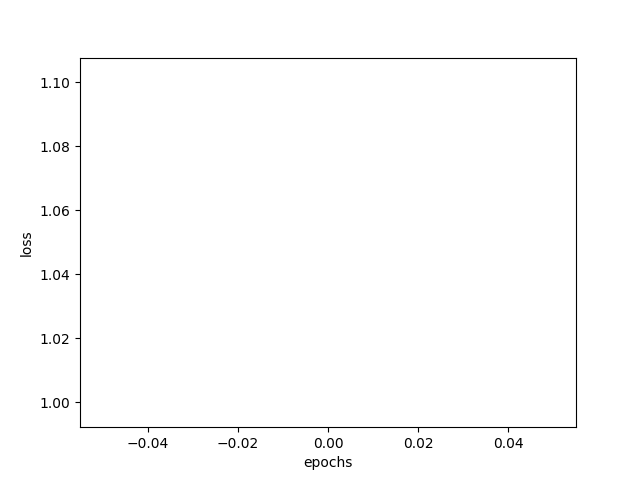
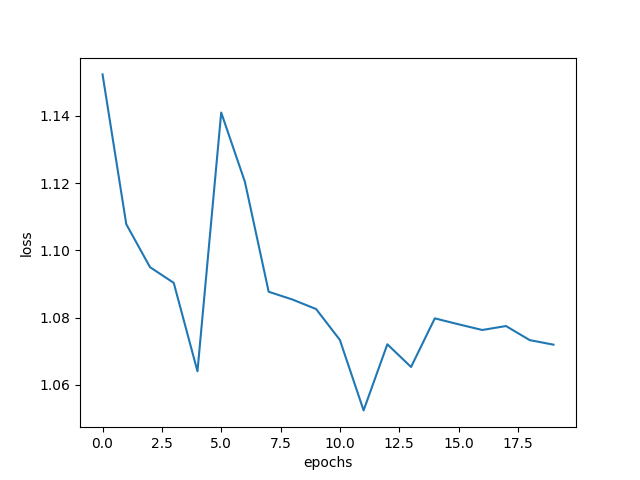
test1 origin

diff --git a/Nakka0925/train_neuralnet.py b/Nakka0925/train_neuralnet.py
@@ -31,11 +31,7 @@ t_test = np.array(t_test)
 
 network = TwoLayerNet(input_size=36864, hidden_size=50, output_size=3)
 
-#iters_num = 10000
-train_size = x_train.shape[0]
-#batch_size = 100
-epoch = 5
-iters_num = epoch * x_train.shape[0]
+epoch = 20
 
 learning_rate = 0.1
 
@@ -43,35 +39,32 @@ train_loss_list = []
 train_acc_list = []
 test_acc_list = []
 
-x_batch = x_train#[batch_mask]
-t_batch = t_train#[batch_mask]
-
 #iter_per_epoch = int(max(train_size / batch_size, 1))
-#print(iter_per_epoch)
+
 start = time.time()
-for i in range(1, iters_num + 1):
+for i in range(epoch):
     #batch_mask = np.random.choice(train_size, batch_size)
     
     # 勾配
     #grad = network.numerical_gradient(x_batch, t_batch)
-    grad = network.gradient(x_batch, t_batch)
+    grad = network.gradient(x_train, t_train)
     
     # 更新
     for key in ('W1', 'b1', 'W2', 'b2'):
         network.params[key] -= learning_rate * grad[key]
     
 
-    if i % iters_num == 0:
-        train_acc = network.accuracy(x_train, t_train)
-        test_acc = network.accuracy(x_test, t_test)
-        loss = network.loss(x_batch, t_batch)
-        train_loss_list.append(loss)
-        train_acc_list.append(train_acc)
-        test_acc_list.append(test_acc)
-        print("train_accuracy:", train_acc, "test_accuracy:", test_acc)
-        end = time.time()
-        print("epoch" + str(int(i / iters_num)), str(end - start) + 's')
-        start = time.time()
+    #if i % train_size == 0:
+    train_acc = network.accuracy(x_train, t_train)
+    test_acc = network.accuracy(x_test, t_test)
+    loss = network.loss(x_train, t_train)
+    train_loss_list.append(loss)
+    train_acc_list.append(train_acc)
+    test_acc_list.append(test_acc)
+    print("train_accuracy:", train_acc, "test_accuracy:", test_acc)
+    end = time.time()
+    print("epoch" + str(int(i+1)), str(end - start) + 's')
+    start = time.time()
     
 
 # グラフの描画
